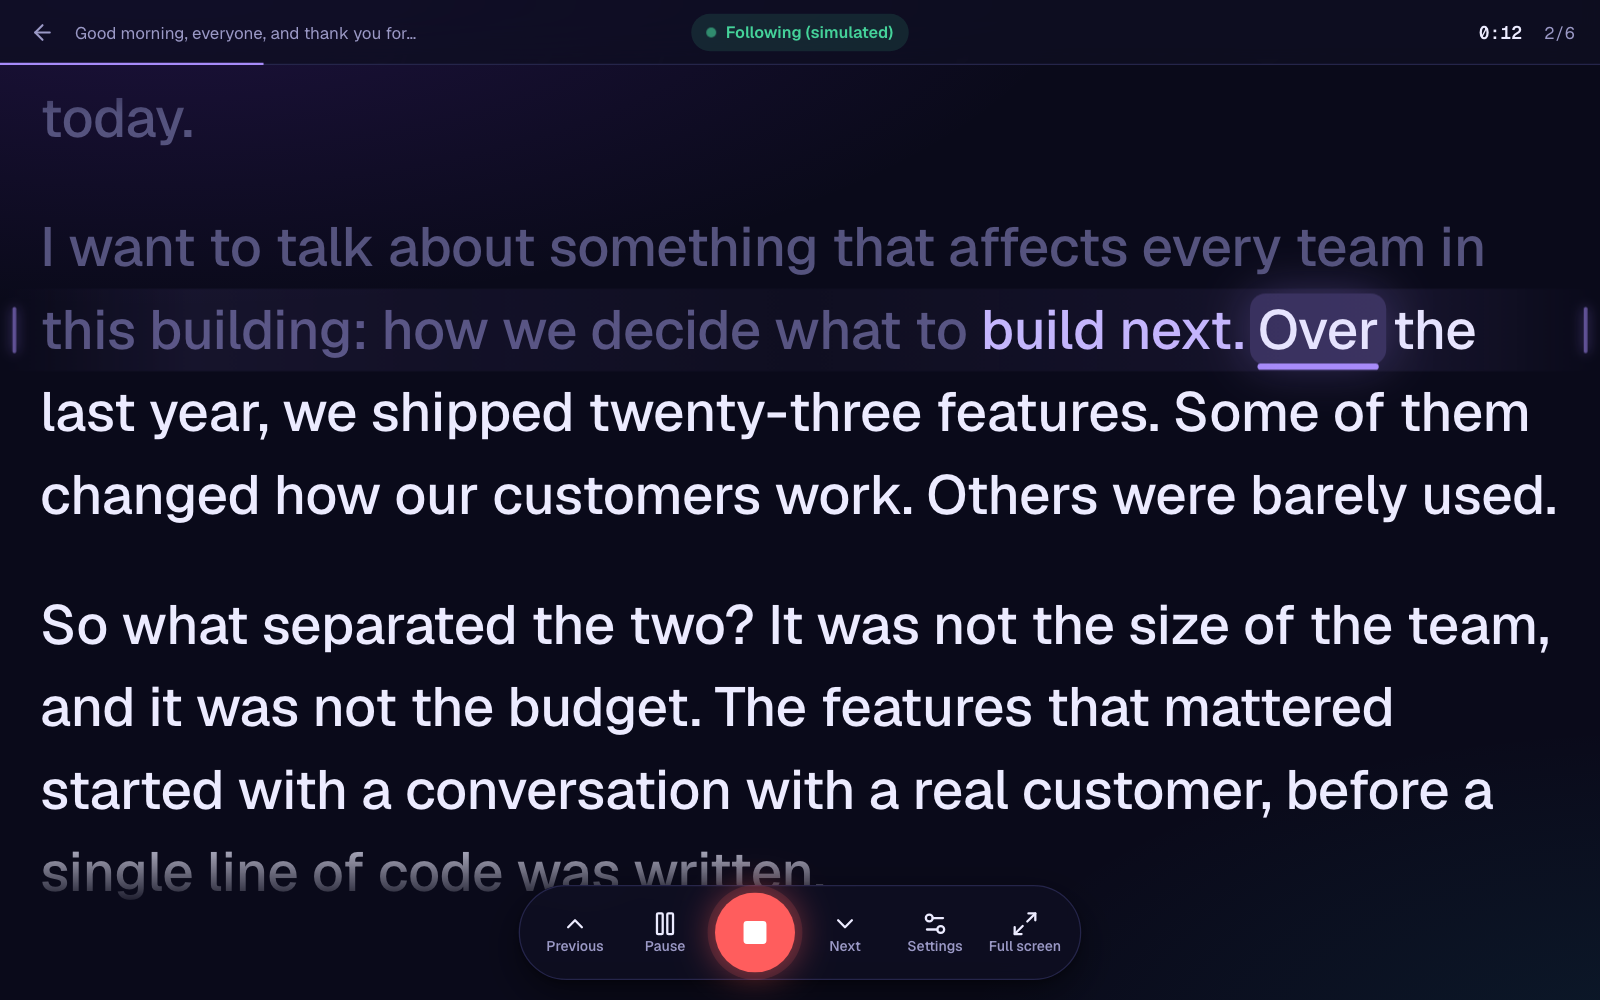
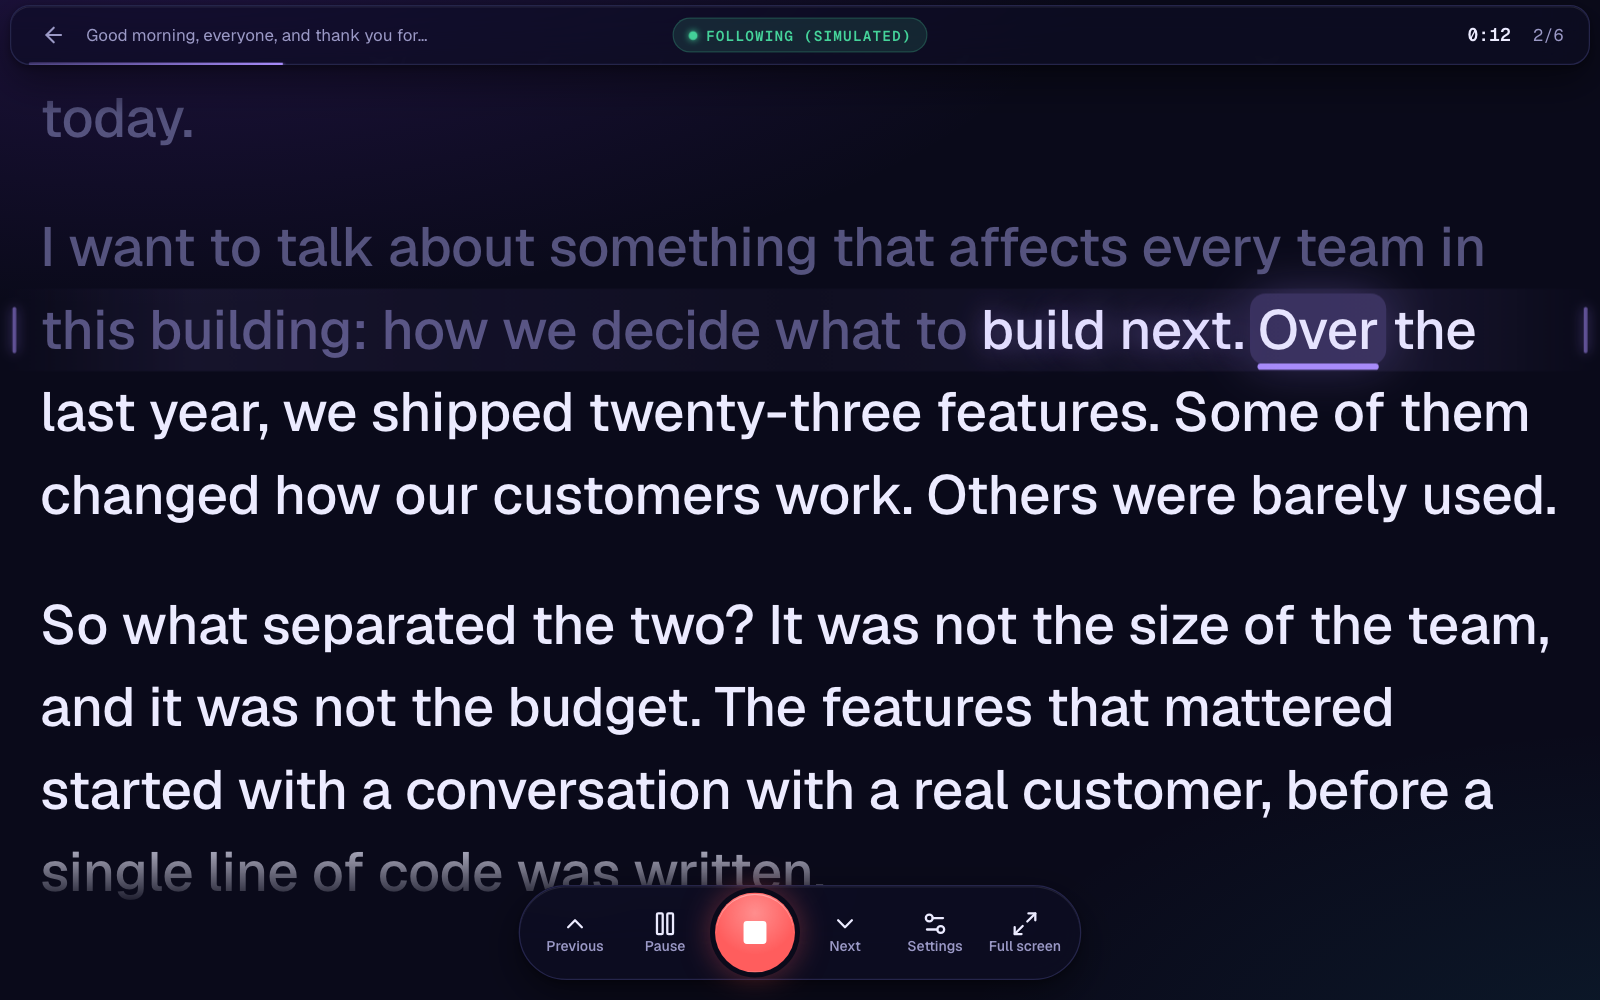
docs: retake README visuals in the new look; show outline mode
Retake the phone and desktop screenshots and following.gif with the HUD
glass design, at the same sizes, themes and moments as before. Add
outline-phone.png to the outline section: practice mode following an
outline, with the current point in its band.

diff --git a/README.md b/README.md
@@ -484,6 +484,12 @@ Lines that start with `-`, `*`, `•` or `1.` and have 10 words or fewer are **p
 around a point in your own words, so it listens for the point's keywords instead of matching word
 by word.
 
+<p align="center">
+<img src="docs/images/outline-phone.png" width="280" alt="Presenter view on a phone following an outline: earlier points are dimmed, and the current point, 'Pilot: automated importer with Acme Logistics', sits in a highlighted band on the reading line." />
+<br />
+<sub>Practice mode following an outline, point by point.</sub>
+</p>
+
 - **Specific words count most:** names, numbers and terms. Words that every point shares count
   for nothing.
 - **It moves on when you have most likely reached the next point,** judged over several phrases.
